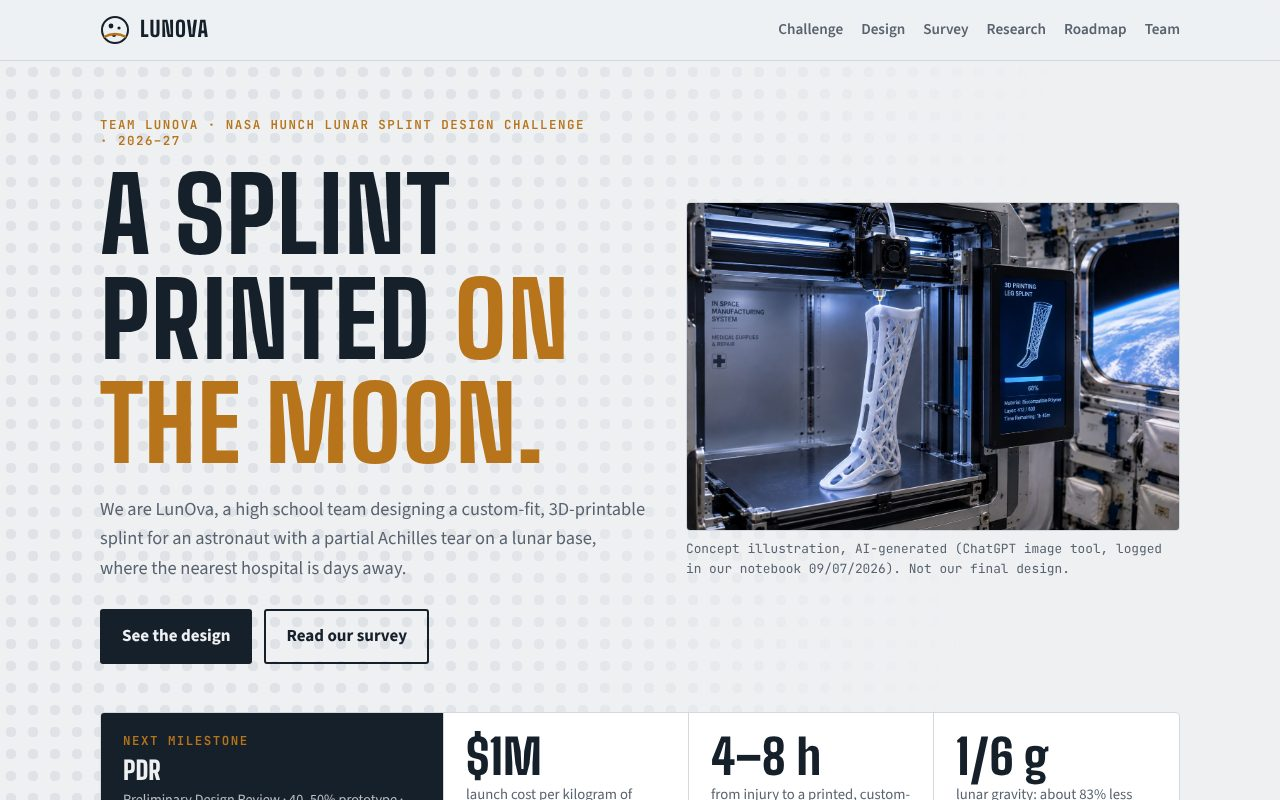
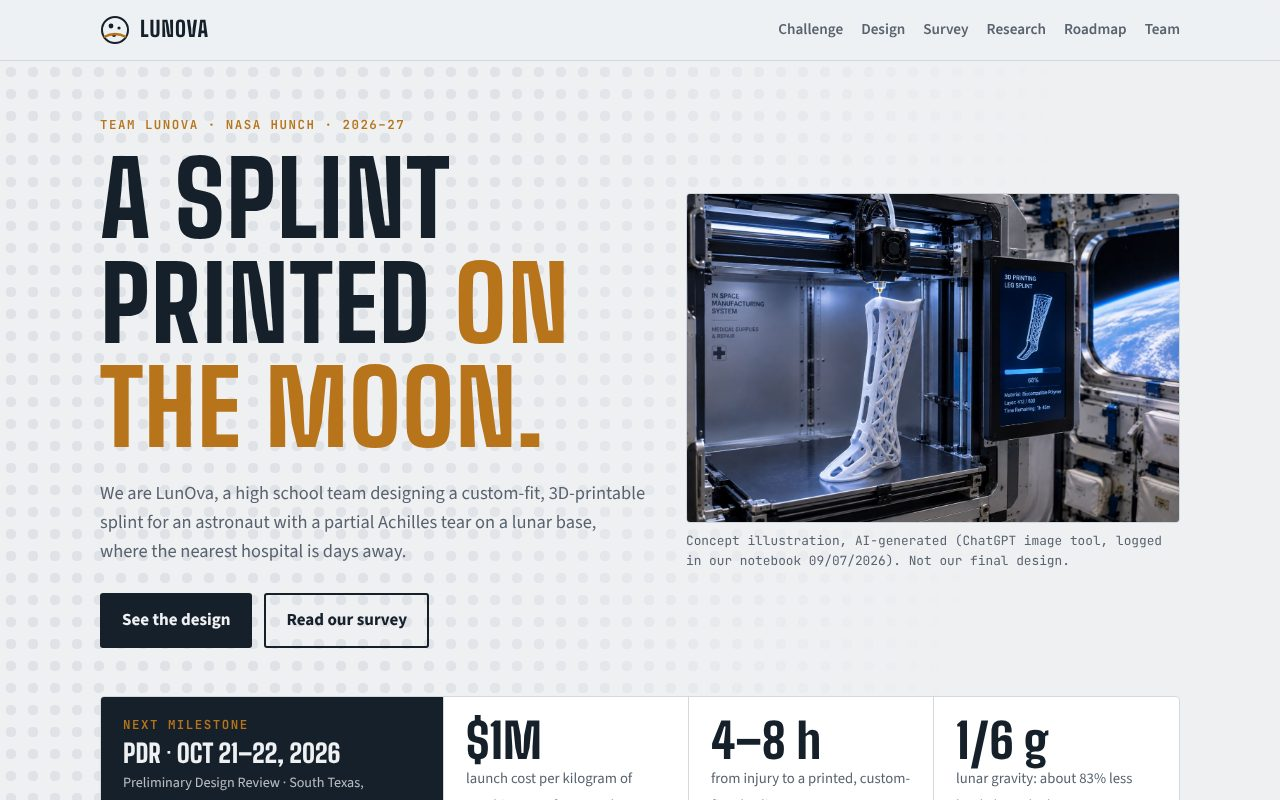
Add South Texas PDR date with a live countdown
Claude-Session: https://claude.ai/code/session_01BrZzckZhtJnifegXE49Z2Z

diff --git a/components/Hero.tsx b/components/Hero.tsx
@@ -1,4 +1,5 @@
-import { heroStats } from "@/lib/content";
+import { heroStats, pdr } from "@/lib/content";
+import Countdown from "./Countdown";
 import { asset } from "@/lib/asset";
 
 export default function Hero() {
@@ -6,7 +7,7 @@ export default function Hero() {
     <header className="hero" id="top">
       <div className="wrap hero-grid">
         <div>
-          <p className="eyebrow">Team LunOva · NASA HUNCH Lunar Splint Design Challenge · 2026–27</p>
+          <p className="eyebrow">Team LunOva · NASA HUNCH · 2026–27</p>
           <h1>
             A splint printed <em>on the Moon.</em>
           </h1>
@@ -35,8 +36,11 @@ export default function Hero() {
         <div className="mission">
           <div className="next">
             <p className="eyebrow">Next milestone</p>
-            <strong>PDR</strong>
-            <small>Preliminary Design Review · 40–50% prototype · date set by our teachers</small>
+            <strong>PDR · {pdr.dates}</strong>
+            <small>
+              Preliminary Design Review · {pdr.region}, {pdr.location} · 40–50% prototype
+            </small>
+            <Countdown to={pdr.start} />
           </div>
           {heroStats.map((s) => (
             <div className="stat" key={s.value}>

diff --git a/components/Countdown.tsx b/components/Countdown.tsx
@@ -1,0 +1,27 @@
+"use client";
+
+import { useEffect, useState } from "react";
+
+// Live countdown to a fixed moment, rendered as days / hours / minutes.
+export default function Countdown({ to }: { to: string }) {
+  const target = new Date(to).getTime();
+  const [now, setNow] = useState<number | null>(null);
+
+  useEffect(() => {
+    setNow(Date.now());
+    const id = setInterval(() => setNow(Date.now()), 30_000);
+    return () => clearInterval(id);
+  }, []);
+
+  if (now === null) return <span className="countdown">&nbsp;</span>;
+  const ms = Math.max(0, target - now);
+  if (ms === 0) return <span className="countdown">Happening now</span>;
+  const d = Math.floor(ms / 86_400_000);
+  const h = Math.floor((ms % 86_400_000) / 3_600_000);
+  const m = Math.floor((ms % 3_600_000) / 60_000);
+  return (
+    <span className="countdown" aria-live="off">
+      <b>{d}</b>d <b>{h}</b>h <b>{m}</b>m to go
+    </span>
+  );
+}

diff --git a/lib/content.ts b/lib/content.ts
@@ -262,8 +262,16 @@ export const deliverables: { title: string; body: string; status: Status }[] = [
   },
 ];
 
+// From the NASA HUNCH PDR/CDR/FDR calendar (times in GMT-5).
+export const pdr = {
+  region: "South Texas",
+  location: "Mercedes, TX",
+  dates: "Oct 21–22, 2026",
+  start: "2026-10-21T08:15:00-05:00",
+};
+
 export const reviews = [
-  { name: "PDR", body: "Preliminary Design Review with a 40–50% prototype. This is our next milestone.", current: true },
+  { name: "PDR", body: "Preliminary Design Review with a 40–50% prototype, at the South Texas review in Mercedes on Oct 21–22, 2026. This is our next milestone.", current: true },
   { name: "CDR", body: "Critical Design Review with a 90% working prototype." },
   { name: "FDR", body: "Final Design Review with a 100% working prototype. By invitation, at NASA Johnson Space Center in Houston." },
 ];

diff --git a/app/globals.css b/app/globals.css
@@ -221,3 +221,5 @@ footer ol.plain{list-style:none;padding:0}
 .sketch .sk-call line{stroke:var(--muted);stroke-width:1}
 .stack{display:grid;gap:24px}.stack > *{min-width:0}
 .headshot{width:120px;height:120px;border-radius:50%;object-fit:cover;display:block;margin-bottom:12px;border:3px solid var(--peek-soft)}
+.countdown{display:block;margin-top:10px;font:600 .85rem/1.2 var(--font-mono);color:var(--peek);font-variant-numeric:tabular-nums}
+.countdown b{font:800 1.5rem/1 var(--font-display);color:var(--bg)}
